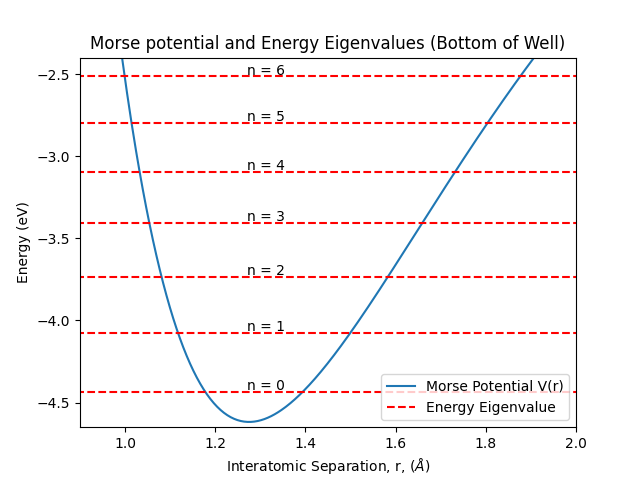
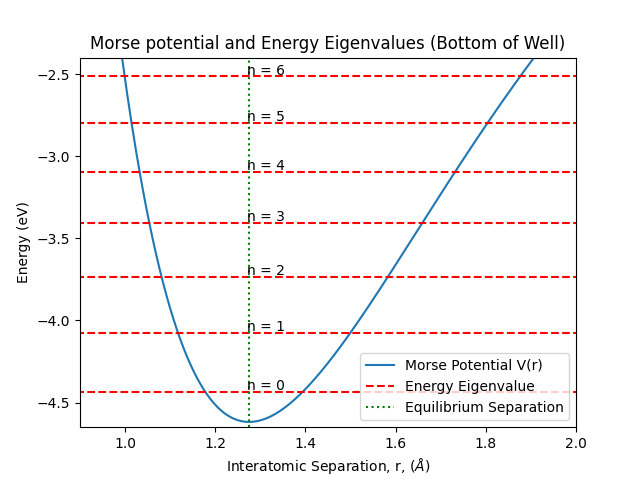
disp equib sep

Changed region(s): [[0.5625, 0.75, 0.875, 0.875]]

diff --git a/finite_difference_morse.py b/finite_difference_morse.py
@@ -70,9 +70,16 @@ for i in range(0, 19, 2):
     energy_level_string = "n = " + str(i)
     ax1.text(-0.1, E_u[i] + 0.05, energy_level_string)
 
+# Display equilibrium radius
+re_line = ax1.axvline(x=r_e, color="green", linestyle="dotted")
+
 # Add legend
-ax1.legend([morse, energy], ["Morse Potential V(r)", "Energy Eigenvalue"],
-           loc="center left", bbox_to_anchor=(.75, 0.5))
+ax1.legend([morse, energy, re_line],
+           ["Morse Potential V(r)",
+            "Energy Eigenvalue",
+            "Equilibrium Separation"],
+           loc="center left", bbox_to_anchor=(.5, 0.5))
+
 
 # Set axes limits/labels
 ax1.set_xlim(-0.2, 5.2)
@@ -93,8 +100,14 @@ for i in range(0, 7):
     energy_level_string = "n = " + str(i)
     ax2.text(1.27, E_u[i] + 0.01, energy_level_string)
 
+# Display equilibrium radius
+re_line = ax2.axvline(x=r_e, color="green", linestyle="dotted")
+
 # Add legend
-ax2.legend([morse, energy], ["Morse Potential V(r)", "Energy Eigenvalue"],
+ax2.legend([morse, energy, re_line],
+           ["Morse Potential V(r)",
+            "Energy Eigenvalue",
+            "Equilibrium Separation"],
            loc="best")
 
 # Set axes limits/labels
@@ -126,9 +139,12 @@ ground, = ax3.plot(r, mod_U0_norm)
 first_excited, = ax3.plot(r, mod_U1_norm)
 second_excited, = ax3.plot(r, mod_U2_norm)
 
+# Display equilibrium radius
+re_line = ax3.axvline(x=r_e, color="red", linestyle="dotted")
+
 # Add legend
-ax3.legend([ground, first_excited, second_excited],
-           ["n = 0", "n = 1", "n = 2"],
+ax3.legend([ground, first_excited, second_excited, re_line],
+           ["n = 0", "n = 1", "n = 2", "Equilibrium Separation"],
            loc="best")
 
 # Set axes limits/labels
